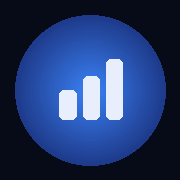
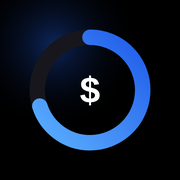
Identidad propia: negro puro con azul eléctrico, dock flotante y transiciones
Claude-Session: https://claude.ai/code/session_01KMgNYoC39GtsrGbavzwPJT

diff --git a/index.html b/index.html
@@ -8,7 +8,7 @@
 <meta name="mobile-web-app-capable" content="yes">
 <meta name="apple-mobile-web-app-status-bar-style" content="black-translucent">
 <meta name="apple-mobile-web-app-title" content="Mis Finanzas">
-<meta name="theme-color" content="#060b17">
+<meta name="theme-color" content="#000000">
 <meta name="robots" content="noindex">
 <link rel="manifest" href="manifest.webmanifest">
 <link rel="apple-touch-icon" href="icon-180.png">
@@ -311,7 +311,7 @@ input[type=range]::-moz-range-thumb{width:14px;height:14px;border-radius:50%;bac
 
   <main>
     <div class="top">
-      <div><h1 id="title">Hola 👋</h1><p id="subtitle">Así va tu mes</p></div>
+      <div><h1 id="title">Hola, Cesar</h1><p id="subtitle">Así va tu mes</p></div>
       <div class="acts" style="display:flex;gap:10px;align-items:center;flex-wrap:wrap">
         <div class="sync" id="sync"><span class="led"></span><span id="syncTxt">En este teléfono</span><button id="syncBtn" title="Respaldo">💾</button></div>
         <div class="month" id="monthBox"><button id="mPrev">‹</button><span id="mLabel" class="num"></span><button id="mNext">›</button></div>
@@ -824,7 +824,7 @@ function reminders(){const k=curKey(),day=+today().slice(8);const txs=txOf(k);
 function monthsList(){const s=new Set([curKey(),S.cur]);D.tx.forEach(t=>t.d&&s.add(t.d.slice(0,7)));D.inc.forEach(t=>t.d&&s.add(t.d.slice(0,7)));return[...s].filter(k=>k&&k>=START).sort()}
 
 /* ================= NAVEGACIÓN ================= */
-const VIEWS={resumen:['Hola 👋','Así va tu mes'],gastos:['Gastos e ingresos','Registra y compara contra tu presupuesto'],historial:['Mes a mes','Cómo vas mejorando'],compartidos:['Fondos compartidos','Dinero de tu familia en tus cuentas'],tarjeta:['Tarjeta BoFA','Tu plan para salir de la deuda'],meta:['Meta $50K','Tu plan de ahorro, ajustable'],patrimonio:['Patrimonio neto','Lo que tienes menos lo que debes']};
+const VIEWS={resumen:['Hola, Cesar','Así va tu mes'],gastos:['Gastos e ingresos','Registra y compara contra tu presupuesto'],historial:['Mes a mes','Cómo vas mejorando'],compartidos:['Fondos compartidos','Dinero de tu familia en tus cuentas'],tarjeta:['Tarjeta BoFA','Tu plan para salir de la deuda'],meta:['Meta $50K','Tu plan de ahorro, ajustable'],patrimonio:['Patrimonio neto','Lo que tienes menos lo que debes']};
 function go(v){if(!VIEWS[v])v='resumen';S.view=v;document.querySelectorAll('[data-v]').forEach(b=>b.classList.toggle('on',b.dataset.v===v));
   document.querySelectorAll('.view').forEach(s=>s.classList.toggle('on',s.id==='v-'+v));$('title').textContent=VIEWS[v][0];$('subtitle').textContent=VIEWS[v][1];
   $('monthBox').style.display=(v==='resumen'||v==='gastos')?'flex':'none';if(location.hash!=='#'+v)history.replaceState(null,'','#'+v);render();window.scrollTo({top:0})}
@@ -845,7 +845,7 @@ function rResumen(){const T=totals(S.cur);const byK={};incOf(S.cur).forEach(i=>b
   $('kLeft').textContent=fmt(T.left);$('kLeft').className='val num '+(T.left<0?'neg':T.left>0?'pos':'');
   $('kLeftF').textContent=T.est?'Estimado con tu sueldo planificado':T.left<0?'Gastaste más de lo que entró':T.left===0?'Todo asignado':'Sin asignar todavía';
   const items=Object.entries(T.by).filter(([k,v])=>v>0&&ty(k)!=='ahorro'&&ty(k)!=='fuera').sort((a,b)=>b[1]-a[1]);
-  mk('cDonut',{type:'doughnut',data:{labels:items.map(i=>i[0]),datasets:[{data:items.map(i=>i[1]),backgroundColor:items.map((_,i)=>PAL[i%PAL.length]),borderColor:'#0c1529',borderWidth:3,hoverOffset:8}]},
+  mk('cDonut',{type:'doughnut',data:{labels:items.map(i=>i[0]),datasets:[{data:items.map(i=>i[1]),backgroundColor:items.map((_,i)=>PAL[i%PAL.length]),borderColor:'#0B0B0E',borderWidth:3,hoverOffset:8}]},
     options:{cutout:'68%',maintainAspectRatio:false,plugins:{legend:{display:false},tooltip:{callbacks:{label:c=>' '+c.label+': '+fmt(c.raw)}}}}});
   $('donutLegend').innerHTML=items.length?items.slice(0,7).map(([k,v],i)=>`<div style="display:flex;align-items:center;gap:9px;padding:6px 0;font-size:13px"><span class="dot" style="background:${PAL[i%PAL.length]}"></span><span style="flex:1">${ic(k)} ${esc(k)}</span><b class="num">${fmt(v)}</b><span class="num" style="color:var(--muted);width:38px;text-align:right">${Math.round(v/T.consumo*100)}%</span></div>`).join(''):'<div style="color:var(--muted)">Aún no hay gastos este mes. Toca <b>＋ Agregar</b>.</div>';
   // alertas
@@ -873,7 +873,7 @@ function rResumen(){const T=totals(S.cur);const byK={};incOf(S.cur).forEach(i=>b
   $('rNetRows').innerHTML=[['🟢 Ahorros (incluye Earn)',nw.assets,'pos'],['🔴 Tarjeta BoFA',-nw.deuda,'neg'],['🔴 Debes a la cuenta familiar',-nw.fam,'neg']].map(r=>`<div class="nw-row"><span>${r[0]}</span><b class="num ${r[2]}">${fmt(r[1])}</b></div>`).join('');
   // meta
   const g=goalState(),P=goalPlan(g);
-  mk('cRing',{type:'doughnut',data:{datasets:[{data:[g.saved,Math.max(0,50000-g.saved)],backgroundColor:['#3b82f6','#172646'],borderWidth:0}]},options:{cutout:'80%',plugins:{legend:{display:false},tooltip:{enabled:false}},maintainAspectRatio:false}});
+  mk('cRing',{type:'doughnut',data:{datasets:[{data:[g.saved,Math.max(0,50000-g.saved)],backgroundColor:['#3b82f6','#1A1A21'],borderWidth:0}]},options:{cutout:'80%',plugins:{legend:{display:false},tooltip:{enabled:false}},maintainAspectRatio:false}});
   $('rGoalPct').textContent=(g.saved/500).toFixed(1)+'%';$('rGoalSub').textContent=`${fmt(g.saved)} de $50,000`;
   $('rGoalEta').innerHTML=P.hit?`Con tu plan actual llegas en <b class="blu">${dLabel(addMonths(P.hit))}</b>`:'Ajusta tu plan en la pestaña Meta';
   // tarjeta
@@ -1275,5 +1275,145 @@ if(navigator.storage&&navigator.storage.persist)navigator.storage.persist().catc
 if('serviceWorker' in navigator)navigator.serviceWorker.register('sw.js').catch(()=>{});
 
 </script>
+<!-- ===== Capa v4: identidad propia (negro puro + azul eléctrico), dock flotante y transiciones ===== -->
+<link href="https://fonts.googleapis.com/css2?family=Sora:wght@500;600;700;800&family=Manrope:wght@400;500;600;700;800&display=swap" rel="stylesheet">
+<style id="v4">
+/* Negro puro de pantalla OLED, tarjetas apenas visibles y un solo color protagonista: el azul eléctrico.
+   Sora (geométrica, de fintech) para títulos y cifras; Manrope para leer. */
+:root{--bg:#000;--surface:#0B0B0E;--surface2:#131318;--surface3:#1B1B22;--border:#1D1D25;--text:#F4F6FB;--muted:#8E95A8;--dim:#5E6475;
+--blue:#2F7BFF;--blue2:#5B9BFF;--blue3:#9CC2FF;--navy:#0B2A66;--cyan:#38D5FF;--green:#2FE0A1;--amber:#FFB547;--red:#FF5C6C;--violet:#9D8CFF;--r:22px;
+--fd:'Sora',system-ui,sans-serif;--fb:'Manrope',system-ui,sans-serif;--spring:cubic-bezier(.2,.9,.25,1.12)}
+[hidden]{display:none!important}
+html,body{background:#000;font-family:var(--fb);font-size:14.5px}
+body{background:#000}
+body::before{content:"";position:fixed;inset:-20% -20% auto -20%;height:70vh;z-index:-1;pointer-events:none;
+ background:radial-gradient(40% 50% at 30% 30%,rgba(47,123,255,.22),transparent 70%),radial-gradient(35% 45% at 75% 20%,rgba(56,213,255,.10),transparent 70%);
+ filter:blur(10px);animation:aurora 18s ease-in-out infinite alternate}
+@keyframes aurora{from{transform:translate3d(-4%,0,0) scale(1)}to{transform:translate3d(6%,4%,0) scale(1.12)}}
+h1,h2,h3,.val,.big,.num,.brand b,.dock span{font-family:var(--fd)}
+.num{letter-spacing:-.02em}
+.top h1{font-size:30px;font-weight:700;letter-spacing:-.03em}
+.top p{font-size:13.5px}
+.card{background:var(--surface);border:1px solid #17171E;border-radius:var(--r);box-shadow:inset 0 1px 0 rgba(255,255,255,.04)}
+.card h3{font-weight:600;letter-spacing:-.01em}
+.kpi .val{font-weight:700}
+.kpi.hero{position:relative;overflow:hidden;background:linear-gradient(140deg,#3B86FF 0%,#1C55E6 45%,#0A2A8A 100%);border:0;box-shadow:0 18px 50px rgba(47,123,255,.35)}
+.kpi.hero::after{content:"";position:absolute;top:0;bottom:0;width:45%;left:-60%;background:linear-gradient(100deg,transparent,rgba(255,255,255,.22),transparent);transform:skewX(-18deg);animation:shine 3.2s 1s ease-in-out infinite}
+@keyframes shine{0%{left:-60%}35%,100%{left:130%}}
+.kpi.hero .lbl,.kpi.hero .foot{color:#D6E4FF}
+.btn{background:var(--blue);background-image:none;border-radius:14px;box-shadow:0 8px 24px rgba(47,123,255,.4);transition:transform .12s,box-shadow .2s}
+.btn:active{transform:scale(.96);box-shadow:0 2px 8px rgba(47,123,255,.4)}
+.chip{background:var(--surface2);border-color:#24242D;transition:transform .12s,background .2s}
+.chip:active,.nav:active{transform:scale(.95)}
+.card.click,.kpi.click{transition:transform .15s}
+.card.click:active,.kpi.click:active{transform:scale(.98)}
+.side{background:rgba(0,0,0,.75);border-right-color:#15151B}
+.logo{background:conic-gradient(from 210deg,var(--blue),var(--cyan),var(--blue));box-shadow:0 0 0 3px #000 inset,0 8px 24px rgba(47,123,255,.5);color:#fff;font-family:var(--fd)}
+.nav.on{background:linear-gradient(90deg,rgba(47,123,255,.25),rgba(47,123,255,.04));border-color:rgba(47,123,255,.4)}
+.sync,.month{background:var(--surface);border-color:#1D1D25;border-radius:999px}
+.bar{background:#1A1A21}
+.bar i{background:linear-gradient(90deg,var(--blue),var(--cyan));transition:width .9s var(--spring)}
+/* Transiciones entre secciones */
+.view.on{animation:none}
+.view.fx-r{animation:vR .45s cubic-bezier(.2,.8,.2,1) both}
+.view.fx-l{animation:vL .45s cubic-bezier(.2,.8,.2,1) both}
+.view.fx-r .card,.view.fx-l .card,.view.fx-u .card{animation:rise .55s cubic-bezier(.2,.8,.2,1) both}
+.view.fx-u{animation:fadeIn .3s both}
+.view .card:nth-of-type(1){animation-delay:.03s}.view .card:nth-of-type(2){animation-delay:.08s}.view .card:nth-of-type(3){animation-delay:.13s}.view .card:nth-of-type(4){animation-delay:.18s}.view .card:nth-of-type(5){animation-delay:.23s}.view .card:nth-of-type(6){animation-delay:.28s}
+.grid>.card:nth-child(2){animation-delay:.1s}.grid>.card:nth-child(3){animation-delay:.16s}.grid>.card:nth-child(4){animation-delay:.22s}
+.view.fx-r .bar i,.view.fx-l .bar i,.view.fx-u .bar i{animation:growX 1s .2s cubic-bezier(.2,.8,.2,1) both;transform-origin:left}
+@keyframes vR{from{opacity:0;transform:translateX(28px)}to{opacity:1;transform:none}}
+@keyframes vL{from{opacity:0;transform:translateX(-28px)}to{opacity:1;transform:none}}
+@keyframes rise{from{opacity:0;transform:translateY(16px) scale(.985)}to{opacity:1;transform:none}}
+@keyframes fadeIn{from{opacity:0}}
+@keyframes growX{from{transform:scaleX(0)}}
+/* Ventanas: suben desde abajo con rebote */
+.modal{background:rgba(0,0,0,.62);backdrop-filter:blur(12px);-webkit-backdrop-filter:blur(12px)}
+.modal.on{animation:fadeIn .25s both}
+.modal.on .sheet{animation:sheetUp .5s var(--spring) both}
+.sheet{background:#0E0E12;border-color:#22222B;border-radius:28px}
+@keyframes sheetUp{from{opacity:0;transform:translateY(60px) scale(.97)}to{opacity:1;transform:none}}
+.toast{background:#0E0E12;border:1px solid rgba(47,123,255,.6);border-radius:999px;box-shadow:0 10px 30px rgba(47,123,255,.25);transition:transform .45s var(--spring),opacity .3s}
+input,select,textarea{background:#101015!important;border-color:#24242D!important;color:var(--text)}
+input:focus,select:focus{border-color:var(--blue)!important;box-shadow:0 0 0 3px rgba(47,123,255,.2)}
+/* Dock flotante (móvil) */
+.dock{display:none}
+.msheet{display:none}
+@media (max-width:760px){
+ .mobnav,.fab{display:none!important}
+ main{padding:calc(14px + env(safe-area-inset-top,0px)) 14px 120px}
+ .top{margin-bottom:16px}
+ .top h1{font-size:27px}
+ .dock{display:flex;position:fixed;left:50%;bottom:calc(14px + env(safe-area-inset-bottom,0px));transform:translateX(-50%);width:min(calc(100% - 24px),430px);height:68px;padding:6px;border-radius:26px;align-items:center;justify-content:space-between;z-index:45;
+  background:rgba(14,14,18,.82);backdrop-filter:blur(18px) saturate(1.4);-webkit-backdrop-filter:blur(18px) saturate(1.4);border:1px solid #25252E;box-shadow:0 18px 40px rgba(0,0,0,.7)}
+ .dock button{position:relative;z-index:1;flex:1;height:56px;border:0;background:none;color:var(--dim);display:flex;flex-direction:column;align-items:center;justify-content:center;gap:3px;font-size:10.5px;font-weight:700;transition:color .25s}
+ .dock button svg{width:22px;height:22px;stroke:currentColor;fill:none;stroke-width:1.9;stroke-linecap:round;stroke-linejoin:round;transition:transform .35s var(--spring)}
+ .dock button.on{color:#fff}
+ .dock button.on svg{transform:translateY(-1px) scale(1.12)}
+ .dock .ind{position:absolute;z-index:0;top:6px;height:56px;border-radius:20px;background:linear-gradient(160deg,rgba(47,123,255,.35),rgba(47,123,255,.12));border:1px solid rgba(91,155,255,.35);transition:left .45s var(--spring),width .45s var(--spring)}
+ .dock .plus{flex:0 0 58px;height:58px;margin:0 4px;border-radius:20px;background:linear-gradient(140deg,#4A93FF,#1F5BEA);color:#fff;font-size:28px;font-weight:300;box-shadow:0 10px 26px rgba(47,123,255,.55);transition:transform .2s var(--spring)}
+ .dock .plus:active{transform:scale(.9) rotate(90deg)}
+ .msheet{display:flex;position:fixed;inset:0;z-index:60;background:rgba(0,0,0,.6);backdrop-filter:blur(12px);-webkit-backdrop-filter:blur(12px);align-items:flex-end;opacity:0;pointer-events:none;transition:opacity .25s}
+ .msheet.on{opacity:1;pointer-events:auto}
+ .msheet .in{width:100%;background:#0E0E12;border-top:1px solid #23232C;border-radius:30px 30px 0 0;padding:14px 16px calc(22px + env(safe-area-inset-bottom,0px));transform:translateY(100%);transition:transform .5s var(--spring)}
+ .msheet.on .in{transform:none}
+ .msheet .grab{width:42px;height:5px;border-radius:3px;background:#2A2A33;margin:0 auto 14px}
+ .msheet h3{font-size:16px;margin:0 4px 12px;color:var(--muted);font-weight:600}
+ .msheet .tiles{display:grid;grid-template-columns:1fr 1fr;gap:10px}
+ .msheet .tiles button{background:#15151B;border:1px solid #23232C;border-radius:22px;padding:16px;text-align:left;color:var(--text);display:flex;flex-direction:column;gap:6px;opacity:0;transform:translateY(14px);transition:transform .45s var(--spring),opacity .3s,background .2s}
+ .msheet.on .tiles button{opacity:1;transform:none}
+ .msheet.on .tiles button:nth-child(2){transition-delay:.04s}.msheet.on .tiles button:nth-child(3){transition-delay:.08s}.msheet.on .tiles button:nth-child(4){transition-delay:.12s}
+ .msheet .tiles button.on{border-color:rgba(91,155,255,.6);background:linear-gradient(160deg,rgba(47,123,255,.22),#15151B)}
+ .msheet .tiles .e{font-size:24px}.msheet .tiles b{font-family:var(--fd);font-size:15px}.msheet .tiles small{color:var(--muted);font-size:11.5px;line-height:1.3}
+ .modal{place-items:end center;padding:0}
+ .modal .sheet{border-radius:30px 30px 0 0;max-width:none;padding-bottom:calc(22px + env(safe-area-inset-bottom,0px))}
+}
+@media (prefers-reduced-motion:reduce){*,*::before,*::after{animation-duration:.01ms!important;animation-iteration-count:1!important;transition-duration:.01ms!important}}
+</style>
+<nav class="dock" id="dock" aria-label="Secciones">
+ <i class="ind" id="dInd"></i>
+ <button data-d="resumen"><svg viewBox="0 0 24 24"><path d="M4 11.5 12 5l8 6.5V20H4z"/><path d="M10 20v-5h4v5"/></svg><span>Inicio</span></button>
+ <button data-d="gastos"><svg viewBox="0 0 24 24"><path d="M6 3h12v18l-3-2-3 2-3-2-3 2z"/><path d="M9 8h6M9 12h6"/></svg><span>Gastos</span></button>
+ <button class="plus" id="dPlus" aria-label="Agregar">＋</button>
+ <button data-d="meta"><svg viewBox="0 0 24 24"><circle cx="12" cy="12" r="8.5"/><circle cx="12" cy="12" r="4.5"/><circle cx="12" cy="12" r=".8"/></svg><span>Meta</span></button>
+ <button data-d="mas" id="dMore"><svg viewBox="0 0 24 24"><rect x="4" y="4" width="6.5" height="6.5" rx="2"/><rect x="13.5" y="4" width="6.5" height="6.5" rx="2"/><rect x="4" y="13.5" width="6.5" height="6.5" rx="2"/><rect x="13.5" y="13.5" width="6.5" height="6.5" rx="2"/></svg><span>Más</span></button>
+</nav>
+<div class="msheet" id="mMore"><div class="in"><div class="grab"></div><h3>Más secciones</h3><div class="tiles">
+ <button data-g="historial"><span class="e">📊</span><b>Mes a mes</b><small>Cómo vas mejorando</small></button>
+ <button data-g="compartidos"><span class="e">👥</span><b>Familia</b><small>Fondos compartidos</small></button>
+ <button data-g="tarjeta"><span class="e">💳</span><b>Tarjeta</b><small>Tu plan para salir de la deuda</small></button>
+ <button data-g="patrimonio"><span class="e">🏛</span><b>Patrimonio</b><small>Lo que tienes menos lo que debes</small></button>
+</div></div></div>
+<script>
+/* Capa v4: dock, transiciones entre secciones y cifras que cuentan hacia su valor. */
+(function(){
+ const ORDER=['resumen','gastos','historial','compartidos','tarjeta','meta','patrimonio'],MORE=['historial','compartidos','tarjeta','patrimonio'];
+ const q=s=>document.querySelector(s),qa=s=>[...document.querySelectorAll(s)];
+ if(window.Chart){Chart.defaults.color='#8E95A8';Chart.defaults.font.family="'Manrope',sans-serif";Chart.defaults.borderColor='rgba(255,255,255,.06)';Chart.defaults.animation={duration:900,easing:'easeOutQuart'}}
+ const ease=t=>1-Math.pow(1-t,3);
+ function countUp(root){if(matchMedia('(prefers-reduced-motion: reduce)').matches)return;
+  root.querySelectorAll('.num').forEach(el=>{if(el.childElementCount)return;const t=el.textContent.trim();const m=t.match(/^(-?)([^\d-]*?)([\d,]+(?:\.\d+)?)(.*)$/);if(!m||t.length>22)return;
+   const dec=(m[3].split('.')[1]||'').length,to=parseFloat(m[3].replace(/,/g,''))*(m[1]?-1:1),from=el._v==null?0:el._v;el._v=to;if(from===to)return;
+   const pre=m[2],suf=m[4],t0=performance.now(),dur=750;cancelAnimationFrame(el._raf);
+   const step=now=>{const k=Math.min(1,(now-t0)/dur),v=from+(to-from)*ease(k);el.textContent=(v<0?'-':'')+pre+Math.abs(v).toLocaleString('en-US',{minimumFractionDigits:dec,maximumFractionDigits:dec})+suf;if(k<1)el._raf=requestAnimationFrame(step);else el.textContent=t};
+   el._raf=requestAnimationFrame(step)})}
+ function dockSync(v){const inMore=MORE.includes(v);qa('.dock [data-d]').forEach(b=>b.classList.toggle('on',b.dataset.d===v||(inMore&&b.dataset.d==='mas')));
+  const on=q('.dock button.on'),ind=q('#dInd');if(on&&ind){ind.style.left=on.offsetLeft+'px';ind.style.width=on.offsetWidth+'px'}
+  qa('#mMore [data-g]').forEach(b=>b.classList.toggle('on',b.dataset.g===v))}
+ const _go=window.go,_render=window.render;let last=null;
+ window.render=function(){_render.apply(this,arguments);const v=q('.view.on');if(v)countUp(v)};
+ window.go=function(v){const prev=(typeof S!=='undefined'&&S.view)||last;_go(v);const cur=S.view,sec=q('#v-'+cur);
+  if(sec&&prev!==cur){sec.classList.remove('fx-r','fx-l','fx-u');void sec.offsetWidth;sec.classList.add(prev==null?'fx-u':ORDER.indexOf(cur)>ORDER.indexOf(prev)?'fx-r':'fx-l')}
+  last=cur;dockSync(cur)};
+ qa('.dock [data-d]').forEach(b=>b.onclick=()=>{if(b.dataset.d==='mas'){q('#mMore').classList.add('on');return}go(b.dataset.d)});
+ q('#dPlus').onclick=()=>q('#fab').click();
+ q('#mMore').onclick=e=>{const b=e.target.closest('[data-g]');if(b){q('#mMore').classList.remove('on');setTimeout(()=>go(b.dataset.g),120);return}if(e.target.id==='mMore')q('#mMore').classList.remove('on')};
+ addEventListener('resize',()=>dockSync(S.view));
+ /* primera pintura */
+ const start=()=>{try{go(S.view||'resumen')}catch(e){}};
+ if(document.readyState==='complete')setTimeout(start,30);else addEventListener('load',()=>setTimeout(start,30));
+})();
+</script>
+
 </body>
 </html>

diff --git a/sw.js b/sw.js
@@ -1,6 +1,6 @@
 /* Mis Finanzas: funciona sin conexión. La app se guarda en el teléfono y se actualiza sola cuando hay internet.
    Tus datos NO pasan por aquí: viven en el almacenamiento del teléfono. */
-const V='mf-v1';
+const V='mf-v2';
 const BASE=['./','index.html','manifest.webmanifest','icon-180.png','icon-192.png','icon-512.png'];
 const CDN=['https://cdnjs.cloudflare.com/ajax/libs/Chart.js/4.4.1/chart.umd.min.js'];
 self.addEventListener('install',e=>{e.waitUntil(caches.open(V).then(c=>c.addAll(BASE).then(()=>Promise.all(CDN.map(u=>fetch(u,{mode:'no-cors'}).then(r=>c.put(u,r)).catch(()=>{}))))).then(()=>self.skipWaiting()))});
